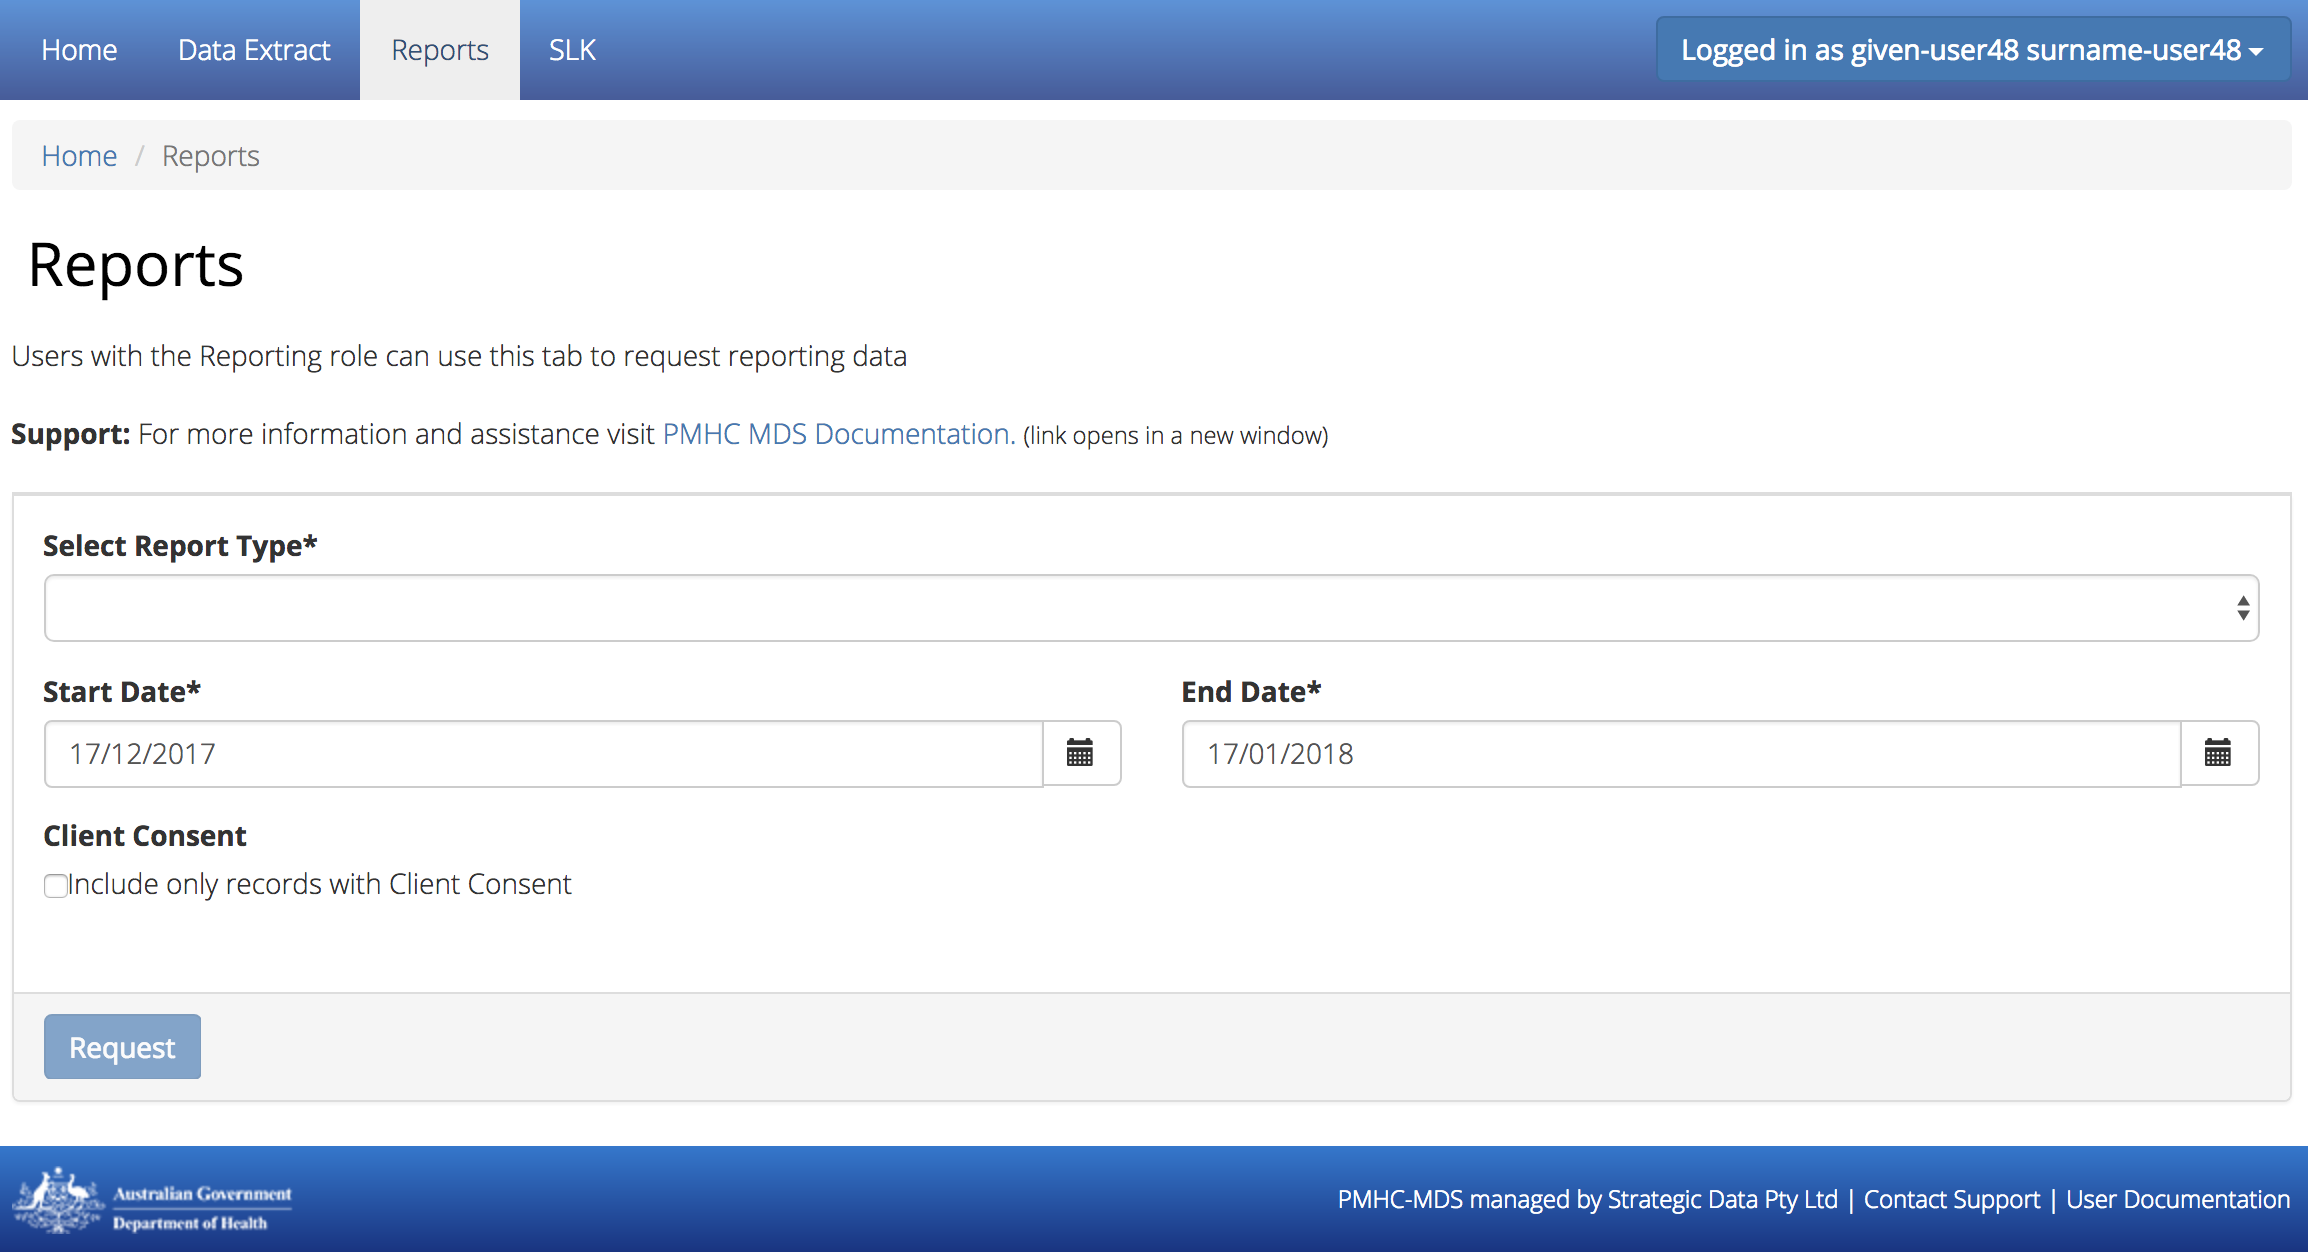
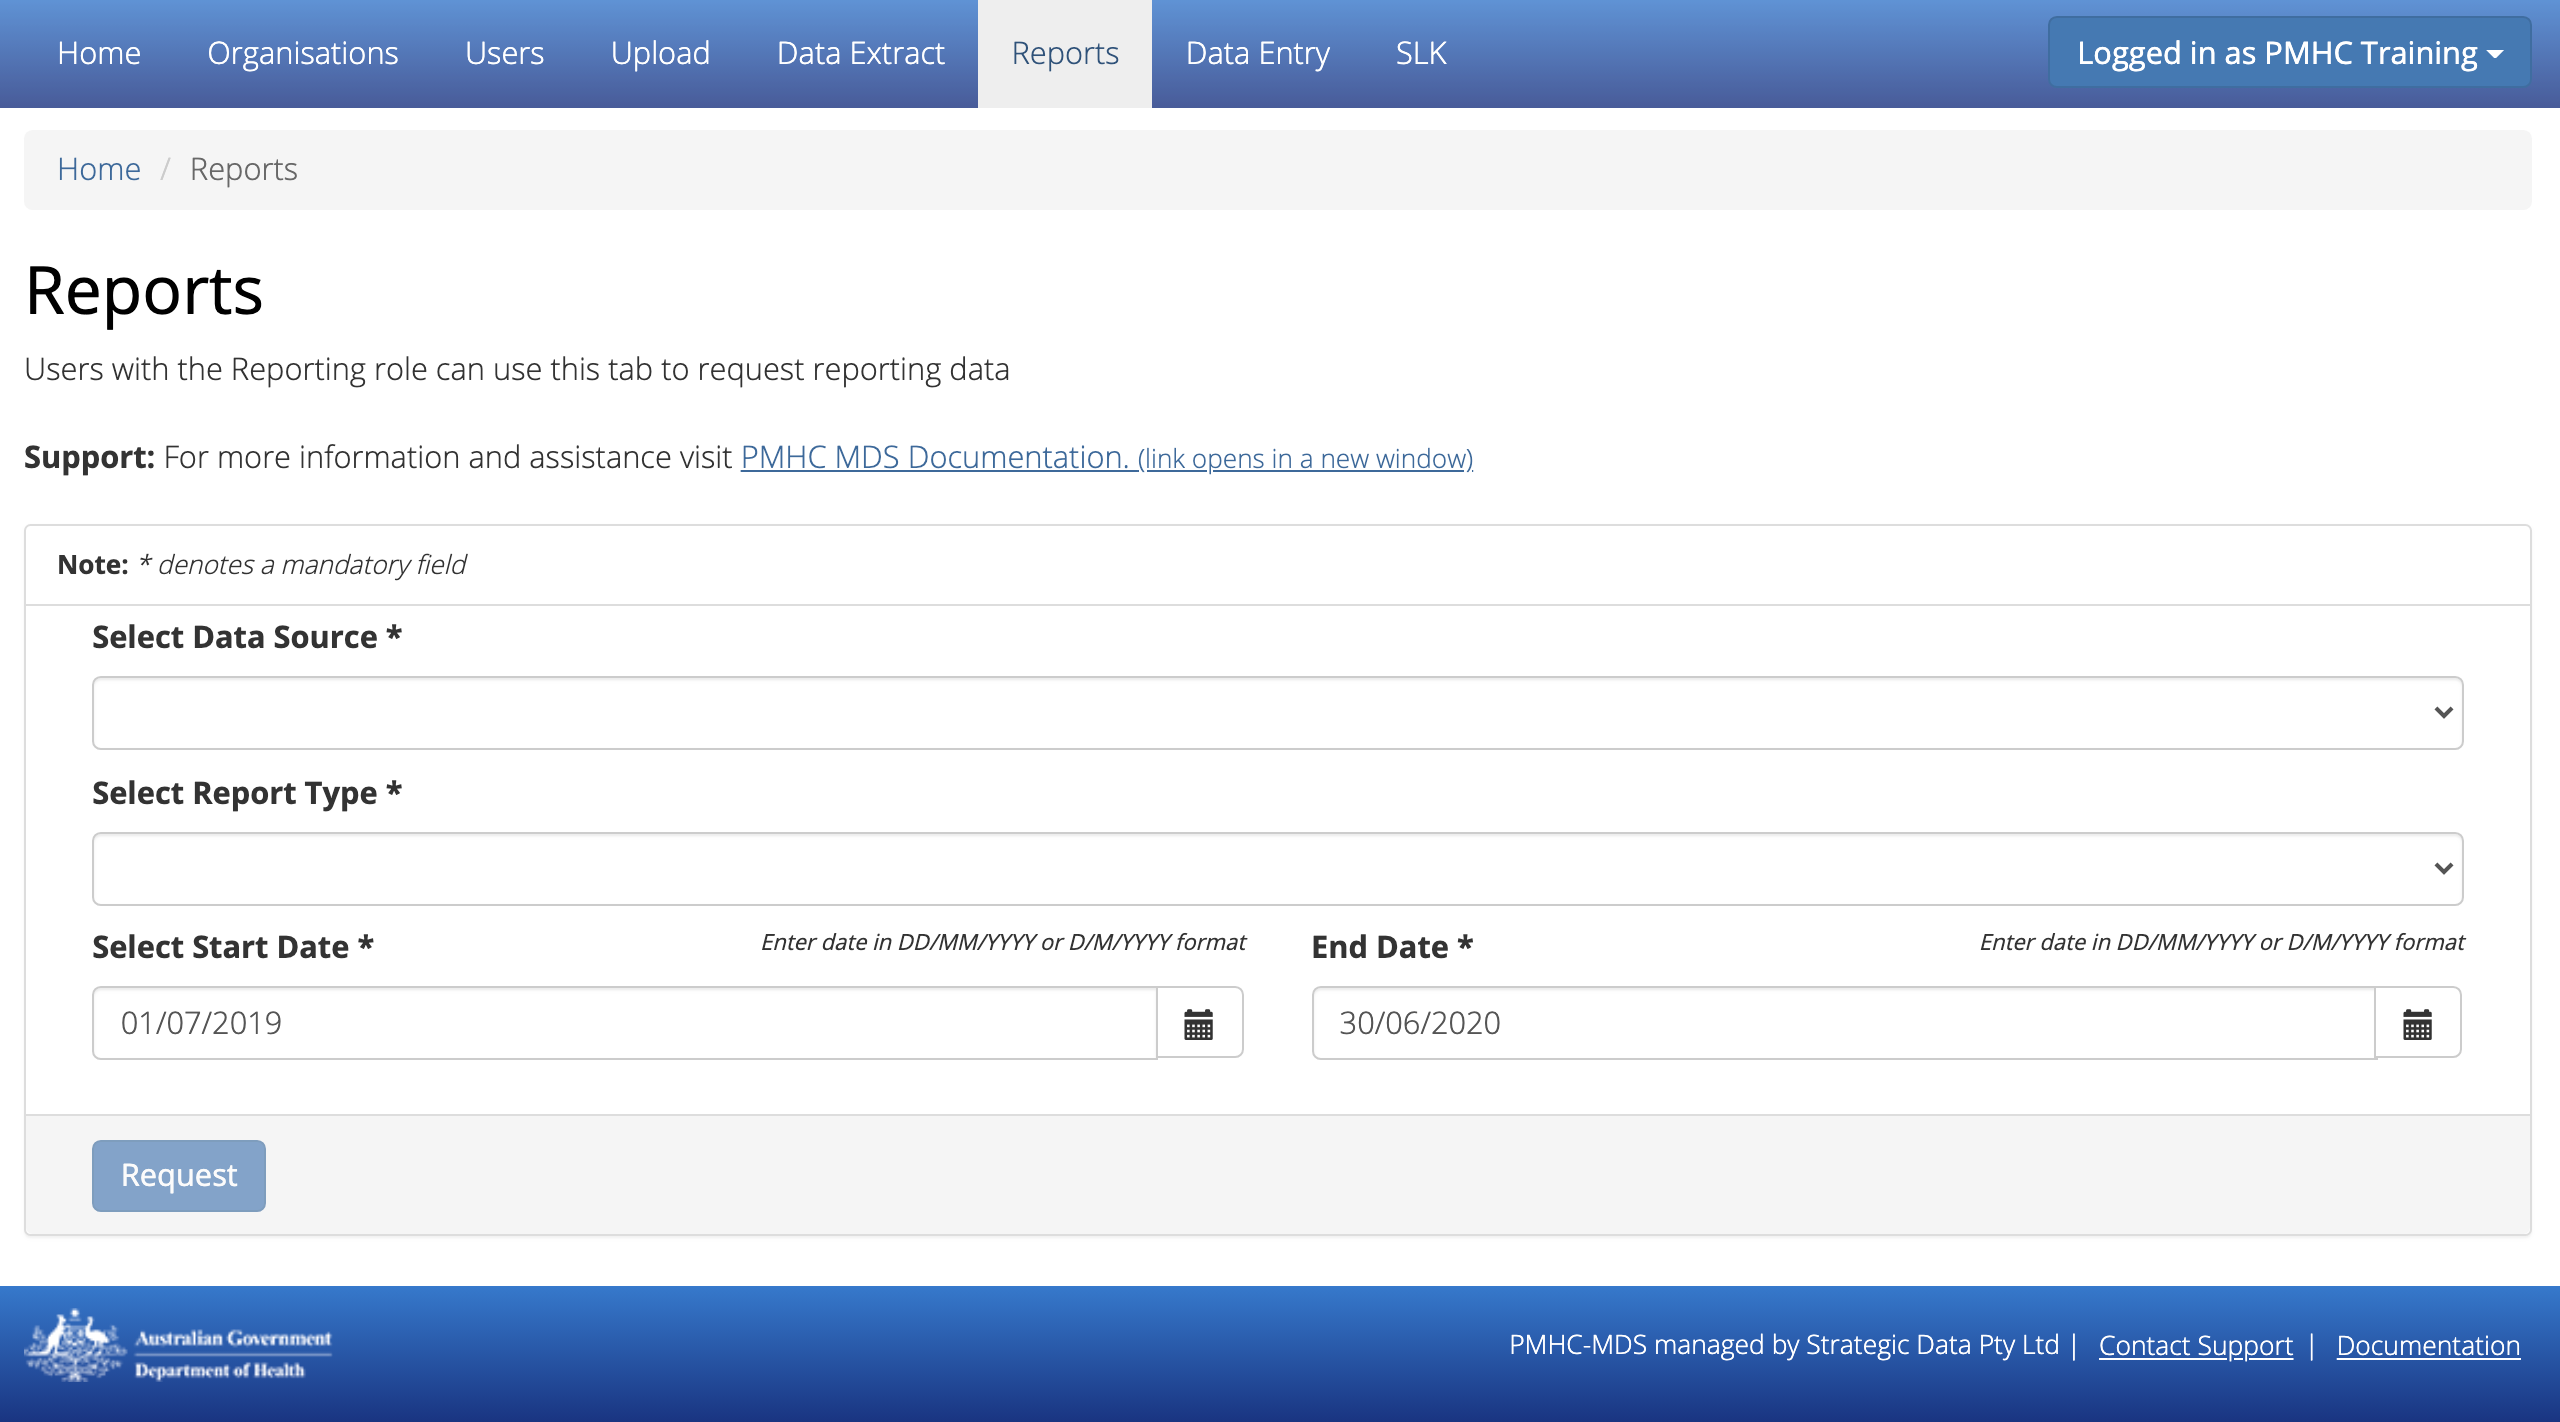
hAPI reports changes
updated reports screenshots
Add data source reference

diff --git a/doc/reporting.rst b/doc/reporting.rst
@@ -34,6 +34,12 @@ following these steps:
 .. figure:: screen-shots/reports-system.png
    :alt: Reports tab View
 
+2. Select the source of the data you would like to produce in your reports, if it is not pre-filled
+
+Please note:
+* **PMHC**: is the standard Primary Mental Health Care flexible funding pool services
+* **hAPI**: is data that headspace head-office has upload from their internal hAPI client information management system
+
 2. Select the type of report you would like to produce
 3. If you are allowed to produce reports for more than one organisation you
    will be asked to select an organisation name
@@ -467,7 +473,7 @@ Key specifications:
   earliest date that is also not marked as ‘No Show’
 * Referral > Date 1 year before Service Contact is defined as a Referral Date
   more than 365 days prior to the earliest (non no-show) Service Contact
-  
+
 .. _category-a11:
 
 A11 — Data quality report — Episodes with no service contact
